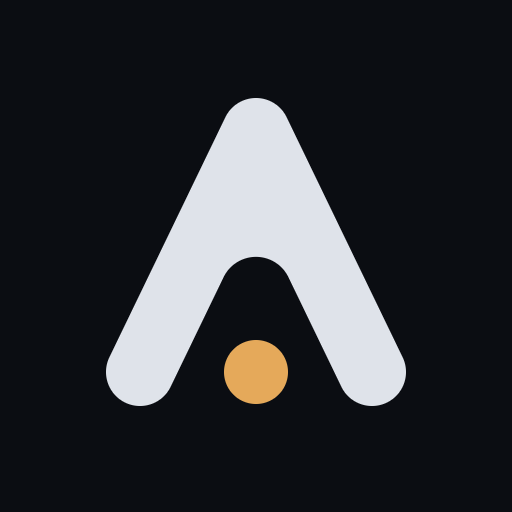
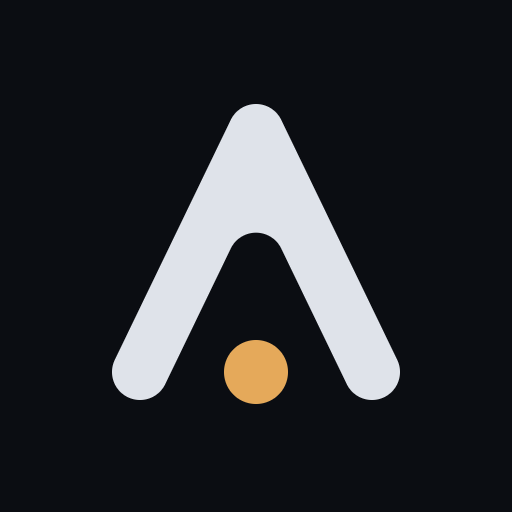
Slim the A's strokes for more inner air in the mark.

diff --git a/src/web/index.html b/src/web/index.html
@@ -65,9 +65,9 @@
   <aside id="rail">
     <div class="rail-head">
       <svg class="brand-mark" viewBox="96 88 320 328" aria-hidden="true">
-        <path d="M140 372 L256 132" fill="none" stroke="currentColor" stroke-width="68" stroke-linecap="round"/>
-        <path d="M372 372 L256 132" fill="none" stroke="currentColor" stroke-width="68" stroke-linecap="round"/>
-        <path d="M223.59 277.19 A36 36 0 0 1 288.41 277.19 L295 155 L217 155 Z" fill="currentColor"/>
+        <path d="M140 372 L256 132" fill="none" stroke="currentColor" stroke-width="56" stroke-linecap="round"/>
+        <path d="M372 372 L256 132" fill="none" stroke="currentColor" stroke-width="56" stroke-linecap="round"/>
+        <path d="M230.79 248.5 A28 28 0 0 1 281.21 248.5 L295 155 L217 155 Z" fill="currentColor"/>
         <circle cx="256" cy="372" r="32" fill="var(--usage-accent)"/>
       </svg>
       <span class="brand">
@@ -134,9 +134,9 @@
           still matches. -->
       <div id="transcript-loading" class="transcript-loading" role="status" aria-live="polite">
         <svg class="brand-mark loading-mark" viewBox="96 88 320 328" aria-hidden="true">
-          <path d="M140 372 L256 132" fill="none" stroke="currentColor" stroke-width="68" stroke-linecap="round"/>
-          <path d="M372 372 L256 132" fill="none" stroke="currentColor" stroke-width="68" stroke-linecap="round"/>
-          <path d="M223.59 277.19 A36 36 0 0 1 288.41 277.19 L295 155 L217 155 Z" fill="currentColor"/>
+          <path d="M140 372 L256 132" fill="none" stroke="currentColor" stroke-width="56" stroke-linecap="round"/>
+          <path d="M372 372 L256 132" fill="none" stroke="currentColor" stroke-width="56" stroke-linecap="round"/>
+          <path d="M230.79 248.5 A28 28 0 0 1 281.21 248.5 L295 155 L217 155 Z" fill="currentColor"/>
           <circle cx="256" cy="372" r="32" fill="var(--usage-accent)"/>
         </svg>
         <span>Loading conversation…</span>
